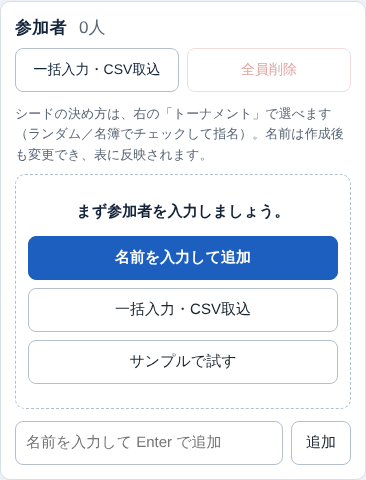
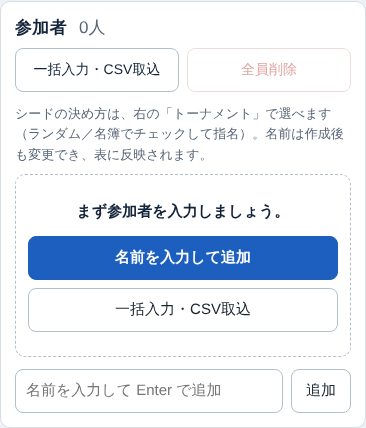
docs: サンプルを外した記録（D45 の更新）とテスト結果、スクリーンショットの差し替え
Claude-Session: https://claude.ai/code/session_01SDTuMLQ1vr1MD5zFdH4FPp

diff --git a/TEST_REPORT.md b/TEST_REPORT.md
@@ -6,8 +6,8 @@
 
 | 区分 | コマンド | 結果 |
 | --- | --- | --- |
-| 単体テスト | `npm test` | 262 / 262 成功（サンプル・案内 7、元に戻す 8、組み合わせの指定・入れ替え 6、出欠 13、試合の開始 16、状態バッジ 5（進行中を追加）、自分の試合 9、ダークの強調色 1、ダークモード 7、表彰 4＋呼び出し画面の表彰 2＋PNG の優勝者名 1、総当たりの絞り込み 8、参加者・設定の進み具合 3、回戦ごとの表示 5、トーナメント表の拡大縮小 4、順位の並びと金・銀・銅 6、結果カード 4、括弧の数 1、状態バッジ 3、色の定義 8、共有: Worker 25＋共有ロジック 7、回の管理 12、次の試合の選び方 4、呼び出し画面の内容 6、上位N人で次の回 7、シード 11、開催日時 6 を含む） |
-| E2E（ブラウザ） | `npm run test:e2e` | 273 / 273 成功（初回の案内とサンプル 12（幅390px・1280pxの各6）、元に戻す 15（幅390px・1280pxの各5＋共通4）と共有の運営・閲覧者 1、組み合わせの確認 18（幅390px・1280pxの各9）、出欠確認 24（幅390px・1280pxの各12）、試合の開始・卓の空き状況 20 と共有の閲覧者 1、自分の試合 22（幅390px・1280pxの各8＋共通6）と共有の閲覧者 1、ダークモード 6、表彰 12、操作感 20、2026-10-18 の修正後も再実行）（総当たりの絞り込み 14、参加者・設定の流れ 15（幅390px・1280pxの各5＋幅390pxの崩れ5）、回戦ごとの表示 9、トーナメント表の表示操作 8、順位表 2、結果カード 5、スマホのヘッダー・タブ 8、共有 8、回 3、保存して次へ 5、呼び出し画面 3、上位N人で次の回 3、シード 4、開催日時 3、スマホの結果入力シート 6、タブ・ポップ 4、状態バッジ・総当たりの記号 3 を含む） |
+| 単体テスト | `npm test` | 258 / 258 成功（案内 3、元に戻す 8、組み合わせの指定・入れ替え 6、出欠 13、試合の開始 16、状態バッジ 5（進行中を追加）、自分の試合 9、ダークの強調色 1、ダークモード 7、表彰 4＋呼び出し画面の表彰 2＋PNG の優勝者名 1、総当たりの絞り込み 8、参加者・設定の進み具合 3、回戦ごとの表示 5、トーナメント表の拡大縮小 4、順位の並びと金・銀・銅 6、結果カード 4、括弧の数 1、状態バッジ 3、色の定義 8、共有: Worker 25＋共有ロジック 7、回の管理 12、次の試合の選び方 4、呼び出し画面の内容 6、上位N人で次の回 7、シード 11、開催日時 6 を含む） |
+| E2E（ブラウザ） | `npm run test:e2e` | 269 / 269 成功（初回の案内 10（幅390px・1280pxの各5）、元に戻す 15（幅390px・1280pxの各5＋共通4）と共有の運営・閲覧者 1、組み合わせの確認 18（幅390px・1280pxの各9）、出欠確認 24（幅390px・1280pxの各12）、試合の開始・卓の空き状況 20 と共有の閲覧者 1、自分の試合 22（幅390px・1280pxの各8＋共通6）と共有の閲覧者 1、ダークモード 6、表彰 12、操作感 20、2026-10-18 の修正後も再実行）（総当たりの絞り込み 14、参加者・設定の流れ 15（幅390px・1280pxの各5＋幅390pxの崩れ5）、回戦ごとの表示 9、トーナメント表の表示操作 8、順位表 2、結果カード 5、スマホのヘッダー・タブ 8、共有 8、回 3、保存して次へ 5、呼び出し画面 3、上位N人で次の回 3、シード 4、開催日時 3、スマホの結果入力シート 6、タブ・ポップ 4、状態バッジ・総当たりの記号 3 を含む） |
 | Electron 起動確認（Linux） | `npm run test:electron` | 成功 |
 | Windows exe ビルド（Linux からクロスビルド） | `npm run dist:win` | 成功（PE32 実行ファイル、asar の中身を確認） |
 | Windows 上でのパッケージ版起動（CI の windows-latest） | `windows.yml`（main, run 39034322170） | 成功（npm test → exe ビルド → パッケージ版で結果入力・PNG変換・自動保存） |
@@ -40,7 +40,7 @@
 | 操作感の細部（D10） | E2E（幅390px・タッチ操作）: 押せる部品が高さ・幅とも44px以上（参加者・設定のシード指名・「大会の回数」・トーナメント（回戦ごと・表で見る）・総当たり・順位表・出力メニュー・結果入力・一括入力・共有のダイアログ・ヘッダーのメニュー）。出力メニュー（幅390px・1280px）: 各表の上は「出力」1つ・項目と data-export・Esc／外側／項目で閉じる・Esc でボタンへ戻る・選ぶとダウンロード・Enter／↓↑／Tab のキーボード操作。通知は画面の下（タブの下・中央）。総当たりで保存した試合の強調（一覧から・次に行う試合から・取り消し）が1.5秒で消える。フォーカスの枠（ボタン・タブ・入力欄・見出しの開閉・SVG のマス・次に行う試合・出力メニュー・カード）が見える。シード指名でページが横にはみ出さない。新しい E2E は変更前のコードで17件失敗することを確認済み（通知の位置の2件は、もとから満たしていた振る舞いの確認）。既存の E2E は、出力ボタンを押す補助関数（`download`）を「メニューを開いてから押す」形に更新 | OK |
 | 表彰の表示（D11） | 単体: 決勝（と3位決定戦）が終わるまでは出ない、3位決定戦ありは勝者1人が3位、なしは準決勝の敗者2人が3位、2人は3位なし、3人（不戦あり）・5〜8人で優勝・準優勝・3位が重ならない、結果の取り消しで消える、呼び出し画面の準優勝・3位、PNG（SVG）の右上の優勝者名（長い大会名は1行下げる）。E2E（幅390px・1280px）: 決勝が終わるまで出ない・終わるとタブの最上部（進行状況より上）に 優勝・準優勝・3位（2人）、金・銀・銅の帯（`--medal-*` と同じ色・幅8px）と優勝28px・動きなし・横スクロールなし、3位決定戦あり、2人の大会は3位なし・取り消しで消える、呼び出し画面、画面のSVGの右上の優勝者名、印刷でも出る。新しい E2E は変更前のコードで失敗することを確認済み | OK |
 | ダークモード（D12） | 単体: DARK_THEME が THEME と同じ名前をすべて持つ、ダーク用 `:root` の値と DARK_THEME の一致、基準色（背景・カード・文字・罫線）、文字と背景のコントラスト比24組が4.5以上、ダークの指定は1か所で `screen` だけ・印刷の白背景の指定が残っている、画面のトーナメント表の fill・stroke の色すべてにダーク用の置き換え規則がある（paper と onPrimary のように同じ値の色は THEME で先のほう）、PNG 用の SVG（interactive でない）は変数もダークの値も含まない。E2E（幅1280px）: ダークの背景・カード・罫線・文字・`color-scheme`・ヘッダー、画面の SVG（背景はカードの色・文字・勝者の枠は青）、印刷表示（ダークでも白背景・SVG も白・文字は濃い色）、PNG の左上の画素が白、結果入力・呼び出し画面・順位表がダーク、ライトのときは今までの色。新しい E2E は変更前のコードでは4件失敗（印刷と PNG は、もとから白背景なので通る）。既存の状態バッジの単体テストは、文字色を `#fff` から `var(--on-primary)`（ライトでは同じ白）に変えたので、期待を更新 | OK |
-| 初回の案内とサンプル（F6） | 単体: サンプル（架空の8人・卓2つ・大会名・トーナメント表・保存と読込・元のデータは変えない・参加者がいるときは作らない・卓名と設定を残す）、表が無い画面の案内（参加者が足りない・足りている・3つの画面・閲覧専用でボタンなし）。E2E（幅390px・1280px）: 0人の名簿の案内（1文と3つのボタン・押せる大きさ・はみ出さない）、「名前を入力して追加」で追加欄にフォーカス・「一括入力」で取込の画面、1人追加すると案内が消える、「サンプルで試す」（8人・卓2つ・大会名・表・トーナメントのタブへ移動・結果を入れられる）、「元に戻す」で空に戻る、表が無いタブの案内（人数で文言とボタンが変わる・ボタンで設定へ移る）。既存 E2E の更新: 名簿が0人のときの表示の確認（表ではなく案内）、共通手順 `importNames` と、ボタンの位置の確認で、「一括入力・CSV取込」を見出しのボタンに絞った。`npm run test:electron` 成功 | OK（実機のスマホは未確認） |
+| 初回の案内（F6） | 単体: 表が無い画面の案内（参加者が足りない・足りている・3つの画面・閲覧専用でボタンなし・大会データが無くても例外にならない）。E2E（幅390px・1280px）: 0人の名簿の案内（1文と2つのボタン・押せる大きさ・はみ出さない）、「名前を入力して追加」で追加欄にフォーカス・「一括入力」で取込の画面、1人追加すると案内が消える、表が無いタブの案内（人数で文言とボタンが変わる・ボタンで設定へ移る）。計画書の「サンプルで試す」は、要望により付けていない（一度実装したが、外した）。既存 E2E の更新: 名簿が0人のときの表示の確認（表ではなく案内）、共通手順 `importNames` と、ボタンの位置の確認で、「一括入力・CSV取込」を見出しのボタンに絞った。`npm run test:electron` 成功 | OK（実機のスマホは未確認） |
 | 元に戻す（F5） | 単体: 履歴（空・新しいものから順に戻る・内容が変わらない置き換えは残さない・最大20件で古いものから捨てる・入力欄の連続した入力を1回にまとめる・別の操作はまとめない・戻したあとはまとめを解く・元の履歴を書き換えない）。E2E（幅390px・1280px）: 操作が無いうちは押せない・操作で押せる・戻すと保存も戻る・全部戻すとまた押せない（スマホ幅はメニューから）、表の作成と結果の保存を戻す（勝者の反映も戻る）、並べ替え・削除を戻す、名前欄への連続した入力が1回で戻る、履歴は20件まで。Ctrl+Z で戻す・入力欄にフォーカスがあるときは戻さない・Shift 付きは何もしない・ダイアログが開いている間は戻さない、再読み込みで履歴が消える、過去の大会を見ている間は使えない。共有（4174）: 運営が戻すと閲覧者にも反映・閲覧者には「元に戻す」が見えない。`npm run test:electron` 成功 | OK（実機のスマホは未確認） |
 | 作成前の組み合わせ確認（F4） | 単体: 配置 `slots` の指定（指定どおりになる・人数・重複・知らない選手・不戦どうしは例外）、入れ替え `swapSlots`（2人だけ変わる・元の配置は変えない・不戦の位置・同じ位置・範囲外は例外）、3〜31人のすべてで、入れ替えても不戦の位置が変わらず不戦どうしの試合ができない、入れ替えた表の保存・読込。E2E（幅390px・1280px）: 作成で確認画面が出る・確定するまで大会データが変わらない・確定で表ができる、キャンセル・Esc で作らない、2人を続けて押すと入れ替わる（もう一度押すと選択が外れる・確定した配置で表ができる）、5人（不戦の行・不戦の枠の選手との入れ替え）、「抽選をやり直す」の表示条件と動き、ランダムのシードのバッジ、欠席の人の「欠席」表示、作り直しのときの確認、押せる大きさとはみ出し。既存 E2E の約80か所は、作成のあとに「この組み合わせで作成」を押す共通の手順（`genTournament`）に更新（作成が拒否される2件は元のまま） | OK（実機のスマホは未確認） |
 | 当日の出欠確認（F3） | 単体: 出欠の数え方・欠席にする／戻す／全員出席（欠席でない選手は `absent` を持たない）、保存・読込（古い形式は全員出席・`true` 以外は欠席にしない・`walkoverIds` は表にいる選手だけ残す）、欠席者を除いたシード（指名・ランダム）、トーナメントの不戦（欠席者の試合・欠席者どうし・連続して当たる試合・3位決定戦・結果が入って次が決まったあとの `settleWalkovers`・出席に戻す）、総当たりの不戦（入力済みの試合は変えない・勝敗の集計）、欠席にしたときの影響（`absenceImpact`）、次の大会は全員出席・過去の大会には出欠が残る。E2E（幅390px・1280px）: 出席のチェック・人数・全員出席にする・再読み込みで残る、押せる大きさ（44px）と名簿が横にはみ出さない、欠席者がいなければ聞かない、作成時の確認（キャンセル・除く・不戦）、総当たりの除く・不戦、出席2人未満は作れない、作成後の欠席（不戦にする・キャンセルでチェックが戻る・記録だけ）、表にいない人は聞かない、結果が入ったあとの続けての不戦、全員出席にすると対象から外れる。新しい E2E は変更前のコードで失敗する（新機能のため）。既存の E2E 3件は期待を更新（名簿の「まだ参加者がいません」の列数 3→4、押せる部品の検査で出席のチェックを対象に含めたため CSS を修正） | OK（実機のスマホは未確認） |

diff --git a/PLAN.md b/PLAN.md
@@ -155,7 +155,7 @@ state = {
 | 総当たりの上位N人で次の回を始める（予選→決勝の簡易連携）※後から追加 | 中 | 小 | 順位表CSVを経由せずに決勝トーナメントへ進める。回の仕組みを使う（D28） |
 | 回（第2回大会など。同じメンバーで次の回を始め、前の回を残す）※後から追加 | 高 | 中 | 同じ参加者で大会を繰り返すのが部活の実態。作り直すと前の結果が消えるため（D22） |
 | 共有（運営が公開・閲覧者が閲覧とコメント、共有コード＋パスワード）※後から追加 | 高 | 大 | 掲示・スマホ確認に役立つ。サーバーが必要なため Cloudflare Workers + D1 を別に用意（D13〜D16） |
-| 初回の案内と「サンプルで試す」（参加者0人の名簿の案内・表が無いタブの次の手順）※後から追加（F6） | 中 | 小 | 初めて開いた人が、何をすればよいかを迷わず、すぐに動きを試せる（D45） |
+| 初回の案内（参加者0人の名簿の案内・表が無いタブの次の手順）※後から追加（F6。計画書の「サンプルで試す」は要望により見送り） | 中 | 小 | 初めて開いた人が、何をすればよいかを迷わない（D45） |
 | 元に戻す（直前の操作を取り消す・Ctrl+Z・履歴20件）※後から追加（F5。見送りにしていた「元に戻す（Undo）」の実装） | 中 | 中 | 当日の操作ミス（結果の入れ間違い・削除）を、すぐ取り消せる（D44） |
 | 作成前の組み合わせ確認・入れ替え（タップ2回で入れ替え・抽選のやり直し）※後から追加（F4。見送りにしていた「組み合わせのドラッグ編集」の代替） | 中 | 中 | 抽選の結果を確かめ、同じ部の人どうしを避けるなどの調整を、表を作り直さずにできる（D43） |
 | 当日の出欠確認（名簿の「出席」チェック・作成時に欠席者を除くか不戦にするか選ぶ・作成後の欠席は不戦にするか確認）※後から追加（F3） | 中 | 中 | 当日の欠席で表を作り直さずに済み、欠席者の試合を不戦勝として扱える（D42） |
@@ -366,11 +366,11 @@ state = {
 - 採用: B。赤は「トーナメント表の勝ち上がり線・勝者の枠」と「削除・エラー」の2つに限る。選んだ行・強調は青、優勝・シードは金
 - 理由: 実行時にビルドなしの `file://` でも動かすため、CSS を JS で書き換えず、値の一致をテストで保証する方が単純。赤の意味を2つに絞ると、エラーと勝者を取り違えない
 
-### D45. 初回の案内とサンプルの作り方（UI改善計画 F6）
-- 判断: (1) 案内を出す場所（名簿の中か、画面の上か）。(2) サンプルが何を変えるか。(3) サンプルを作るときの確認・組み合わせの確認。(4) 表が無いタブの案内の文言と、閲覧者の扱い
-- 選択肢: (1) A. 名簿の表の代わりに、名簿の中へ出す／B. 画面の上に初回だけのバナーを出す。(2) A. 全部を新しい大会データに置き換える／B. 名簿・卓2つ・大会名・トーナメントだけを入れ、設定・過去の大会は残す。(3) A. 確認する／B. 確認せず、「元に戻す」で消せることを知らせる。(4) A. 一律の文言とボタン／B. 参加者の人数と閲覧専用かで変える
-- 採用: (1) A、(2) B、(3) B（組み合わせの確認も出さない）、(4) B
-- 理由: (1) バナーは「閉じたあとの状態」「もう一度出すか」など管理するものが増える。名簿が空であること自体が条件なので、空でなくなれば自然に消える案内のほうが、持つ状態が無い。(2) 設定（シードの決め方など）や過去の大会は、サンプルで消えると困る。参加者がいるときは作らず、今の名簿を消さない。(3) サンプルは「まず動かしてみる」ためのもので、確認の画面を挟むと目的に合わない。F5 の「元に戻す」で1回で空に戻せるので、確認は要らない。(4) 次にすることは、参加者が足りているかで変わる。閲覧者・過去の大会を見ている人は、作る人ではないので、押せないボタンは出さない（既存の「参加者・設定へ」は、閲覧者では押しても移れなかった）。「まだ作成されていません」という既存の言い方は残した
+### D45. 初回の案内の作り方と、「サンプルで試す」の見送り（UI改善計画 F6）
+- 判断: (1) 案内を出す場所（名簿の中か、画面の上か）。(2) 計画書にあった「サンプルで試す」を付けるか。(3) 表が無いタブの案内の文言と、閲覧者の扱い
+- 選択肢: (1) A. 名簿の表の代わりに、名簿の中へ出す／B. 画面の上に初回だけのバナーを出す。(2) A. 付ける（架空の8人・卓2つ・トーナメント表を入れる）／B. 付けない。(3) A. 一律の文言とボタン／B. 参加者の人数と閲覧専用かで変える
+- 採用: (1) A、(2) B（要望による。一度は A で実装したが、「サンプルはいらないかも」との声で外した）、(3) B
+- 理由: (1) バナーは「閉じたあとの状態」「もう一度出すか」など管理するものが増える。名簿が空であること自体が条件なので、空でなくなれば自然に消える案内のほうが、持つ状態が無い。(2) 実際に使う名簿を入れる前に試したい場面が少なく、ボタンが増えるほうが案内が散らかる。使い方は、README と画面の案内で足りる。外したので、サンプル用のコードと、大会名「サンプル大会」・架空の名前は残していない（必要になったら、`generateTournament` と `makePlayers` で作れる）。(3) 次にすることは、参加者が足りているかで変わる。閲覧者・過去の大会を見ている人は、作る人ではないので、押せないボタンは出さない（既存の「参加者・設定へ」は、閲覧者では押しても移れなかった）。「まだ作成されていません」という既存の言い方は残した
 
 ### D44. 元に戻すの履歴の持ち方（UI改善計画 F5）
 - 判断: (1) 何を履歴に残すか。(2) どの単位で1回とするか（入力欄の連続した入力）。(3) 共有・過去の大会との関係。(4) やり直し（Redo）

diff --git a/CHANGELOG.md b/CHANGELOG.md
@@ -4,12 +4,13 @@
 
 ## [Unreleased]
 
-### 追加（初回の案内と「サンプルで試す」・UI改善計画 F6）
-- 参加者が0人のとき、「参加者・設定」の名簿を、表ではなく案内に替えた: 「まず参加者を入力しましょう。」と、「名前を入力して追加」（追加欄へ移る）・「一括入力・CSV取込」・「サンプルで試す」の3つのボタン。スマホ幅では、ボタンを縦に全幅で並べる。1人でも追加すると、これまでの名簿の表になる
-- 「サンプルで試す」: 架空の8人（山田 太郎ほか）と卓2つを入れ、大会名を「サンプル大会」にして、トーナメント表を作り、トーナメントのタブへ移る（組み合わせの確認は出さない）。卓名・設定・過去の大会はそのまま。参加者がいるときは作らない（今の名簿を消さない）。通知で「元に戻す」で消せることを知らせる
+### 追加（初回の案内・UI改善計画 F6）
+- 参加者が0人のとき、「参加者・設定」の名簿を、表ではなく案内に替えた: 「まず参加者を入力しましょう。」と、「名前を入力して追加」（追加欄へ移る）・「一括入力・CSV取込」の2つのボタン。スマホ幅では、ボタンを縦に全幅で並べる。1人でも追加すると、これまでの名簿の表になる
 - 表がまだ無いタブ（トーナメント・総当たり・順位表）の案内を、次にすることを書いた形にそろえた。参加者が2人未満なら「まず参加者を2人以上入力しましょう。」と「参加者を入力する」、2人以上なら「「参加者・設定」で「◯◯を作成」を押してください。」と「表を作成する」のボタンを出す。共有の閲覧者・過去の大会を見ているときは、「運営が作成するまでお待ちください。」とし、ボタンは付けない
-- 判定は `src/core/sample.js`・`src/core/guide.js`（画面に依存しない部品）。画面は `src/ui/emptyGuide.js`
+- 計画書にあった「サンプルで試す」（架空の8人と卓2つを入れて表を作る）は、要望により付けていない（`PLAN.md` D45）
+- 判定は `src/core/guide.js`（画面に依存しない部品）。画面は `src/ui/emptyGuide.js`
 - E2E の共通手順 `importNames` は、名簿の見出しの「一括入力・CSV取込」を押すように変えた（案内にも同じ名前のボタンが増えたため）
+
 ### 追加（元に戻す・UI改善計画 F5）
 - ヘッダーに「元に戻す」ボタンを付けた（スマホ幅はメニューの先頭）。押すと、直前の操作を1つ戻す。Ctrl+Z（Mac は ⌘+Z）でも戻せる。操作が無いときは押せない。戻した内容は、今の保存・共有の送信と同じ仕組みで保存・送信する（共有中は閲覧者にも反映される）
 - 戻せる操作は、大会データを置き換えるすべて（結果の保存・取り消し、参加者の追加・削除・並べ替え・取込、表の作成・作り直し、卓・設定・大会名の変更、試合の開始、大会の回数の操作、ファイルの読込、「新規」など）。履歴は最大20件（古いものから捨てる）。ページを再読み込みすると消える。内容が変わらない操作は残さない

diff --git a/README.md b/README.md
@@ -7,7 +7,7 @@
 
 - 参加者名簿からトーナメント表（2〜128人）・総当たり表（2〜40人）を自動作成
 - 参加者名・卓名の編集（作成後の名前変更も表に反映）
-- 初めて使うとき: 参加者が0人の「参加者・設定」に案内が出る。「サンプルで試す」で、架空の8人と卓2つ・トーナメント表が入り、すぐに動きを試せる（「元に戻す」で消せる）
+- 初めて使うとき: 参加者が0人の「参加者・設定」に案内が出て、名前の追加・一括入力に進める。表が無いタブにも、次にすることが出る
 - 元に戻す: ヘッダーの「元に戻す」・Ctrl+Z で、直前の操作を取り消せる（最大20回前まで。ページを再読み込みすると消える）
 - 作成前の組み合わせ確認: 「トーナメント表を作成」で1回戦の組み合わせを確認し、2人を続けて押して入れ替え、抽選をやり直せる
 - 当日の出欠確認: 名簿の「出席」チェックで欠席を記録し、表の作成時に欠席の人を除くか不戦にするかを選べる

diff --git a/TODO.md b/TODO.md
@@ -15,7 +15,7 @@
 - D11（表彰表示）は実装済み
 - D12（ダークモード）は実装済み
 - F1（閲覧者が「自分の試合」を探せる）は実装済み
-- F6（初回の案内と「サンプルで試す」）は実装済み。サンプルは固定の8人（名前を変える設定は持たない）
+- F6（初回の案内）は実装済み。計画書の「サンプルで試す」は、要望により付けていない
 - F5（元に戻す）は実装済み。やり直し（Redo）は持たない。履歴は20件で、再読み込み・閲覧の開始と終了で消える
 - F4（作成前の組み合わせ確認・入れ替え）は実装済み。入れ替えは作成前だけ（作成後の組み合わせの変更は、表を作り直す）。総当たりには確認画面を付けていない
 - F3（当日の出欠確認）は実装済み。出欠は名簿の画面だけで見える（トーナメント表・順位表・共有の閲覧画面には「欠席」の印は出ない）

diff --git a/CLAUDE.md b/CLAUDE.md
@@ -43,7 +43,6 @@ src/core/      純粋ロジック（DOM非依存・Nodeでテスト可能）
   matchFilter.js 総当たりの試合結果一覧の絞り込み（状態・回戦・卓・選手名）
   myMatch.js   「自分の試合」（選んだ選手の次の試合・成績・名前の選び方）
   undo.js      「元に戻す」の履歴（最大20件・入力のまとめ）
-  sample.js    「サンプルで試す」の大会データ（架空の8人・卓2つ・トーナメント表）
   guide.js     表が無い画面の案内（次にすることの文言・移動ボタン）
   attendance.js 当日の出欠（欠席の選手・不戦への反映）
   started.js   試合の「開始」（開始時刻の検証・経過分・進行中の反映）
